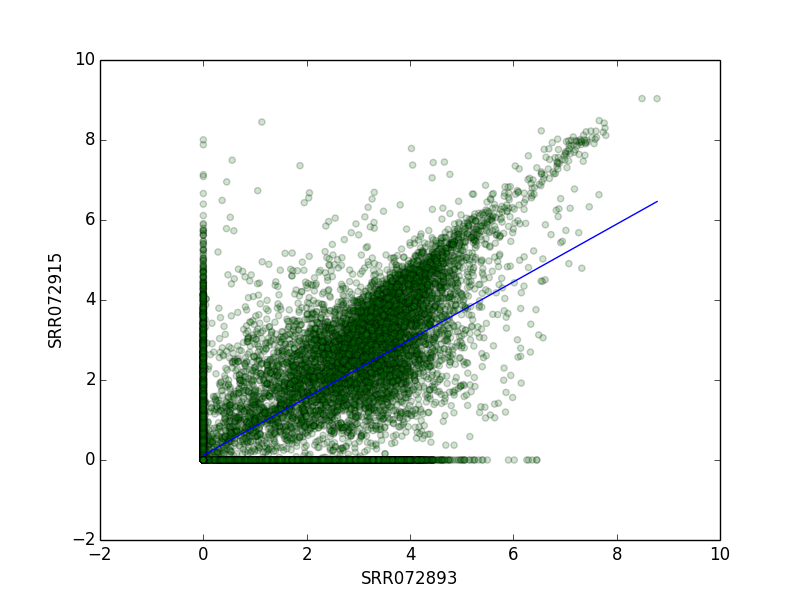
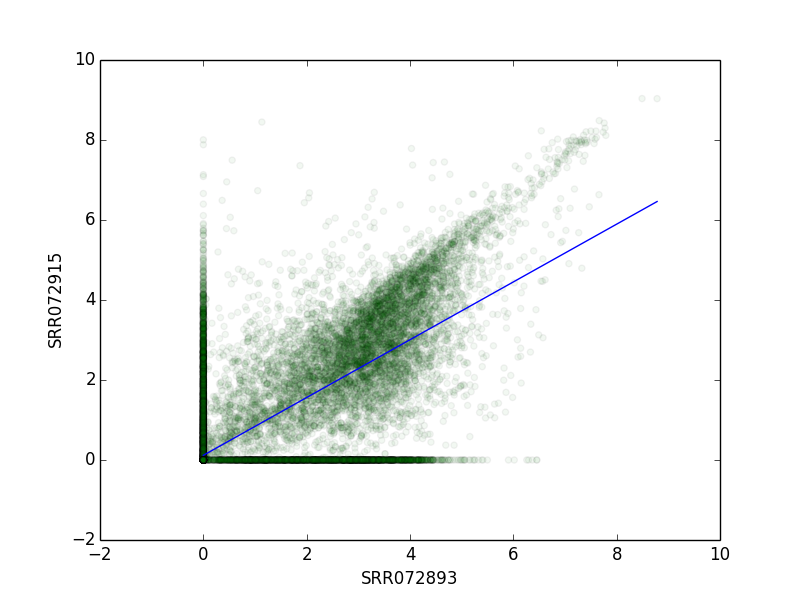
day 4 lunch exercises

diff --git a/day4-lunch/00-xyscatter.py b/day4-lunch/00-xyscatter.py
@@ -27,12 +27,12 @@ df2_fpkm= pd.read_csv(sys.argv[2], sep="\t")
 log_fpkm1 = np.log1p(df1_fpkm["FPKM"])
 log_fpkm2 = np.log1p(df2_fpkm["FPKM"])
 
-x = log_fpkm1
+x = log_fpkm1 #DEFINE EVERYTHING THEN PLUG IT IN (see line 38)
 y = log_fpkm2
 
 
 plt.figure()
-plt.scatter( log_fpkm1, log_fpkm2, alpha = 0.2, c = "green" )
+plt.scatter( log_fpkm1, log_fpkm2, alpha = 0.05, c = "green" )
 plt.xlabel("SRR072893")              # label the x-axis
 plt.ylabel("SRR072915")
 plt.plot(np.unique(x), np.poly1d(np.polyfit(x, y, 1))(np.unique(x)))
